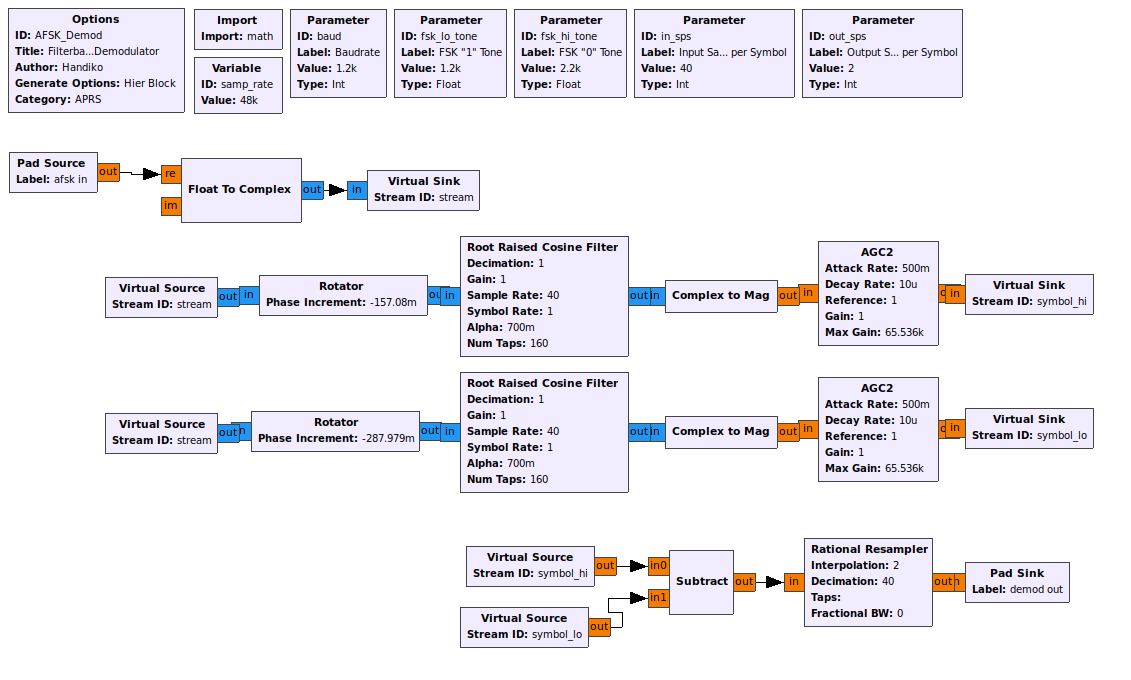
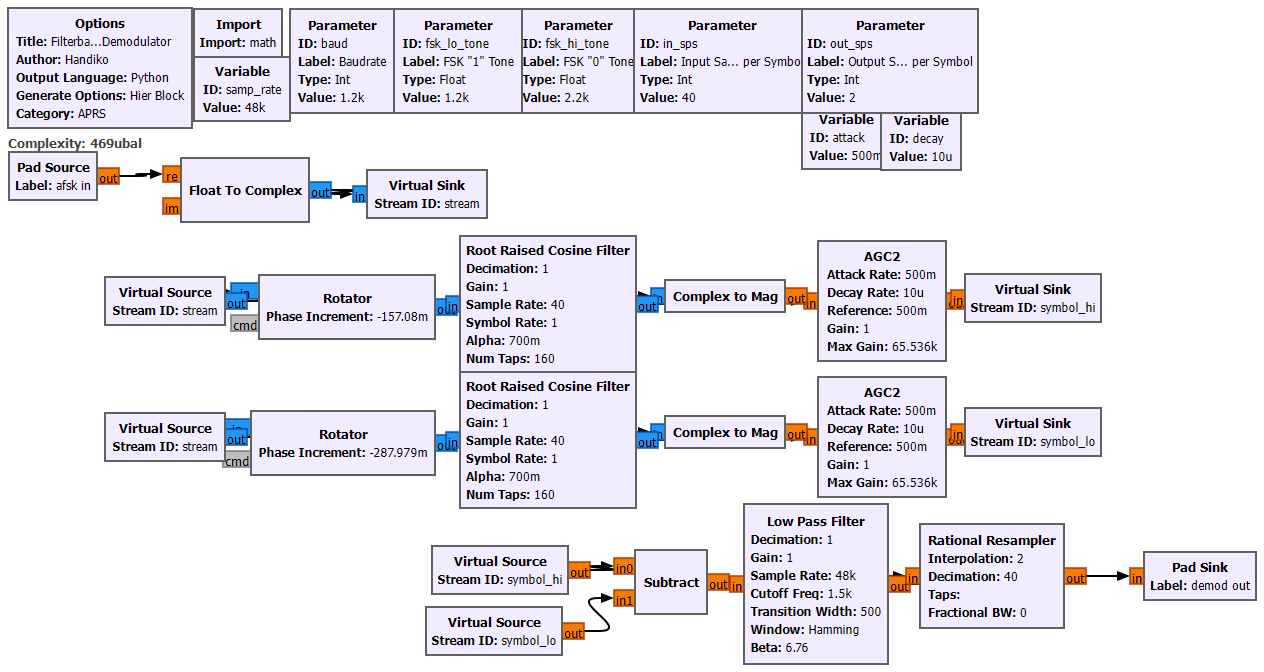
update

diff --git a/Examples/APRS_RX_RTL.py b/Examples/APRS_RX_RTL.py
@@ -20,6 +20,7 @@ from APRS_Rx import APRS_Rx  # grc-generated hier_block
 from PyQt5 import QtCore
 from gnuradio import analog
 import math
+from gnuradio import audio
 from gnuradio import blocks
 from gnuradio import filter
 from gnuradio.filter import firdes
@@ -81,11 +82,11 @@ class APRS_RX_RTL(gr.top_block, Qt.QWidget):
         self.mark = mark = 1200
         self.gmu = gmu = 0.175
         self.freq = freq = 144.39e6 - samp_rate/4
-        self.dev_ppm = dev_ppm = 58
+        self.dev_ppm = dev_ppm = 35
         self.bpf = bpf = firdes.band_pass(1.0, ch_rate, 1e3, 2.6e3, 100.0, window.WIN_BLACKMAN, 6.76)
         self.bb_rate = bb_rate = 192e3
         self.baud = baud = 1200
-        self.afgain = afgain = -7
+        self.afgain = afgain = -10.0
 
         ##################################################
         # Blocks
@@ -97,6 +98,13 @@ class APRS_RX_RTL(gr.top_block, Qt.QWidget):
         for r in range(2, 3):
             self.top_grid_layout.setRowStretch(r, 1)
         for c in range(0, 1):
+            self.top_grid_layout.setColumnStretch(c, 1)
+        self._afgain_range = qtgui.Range(-20, -1, 0.1, -10.0, 100)
+        self._afgain_win = qtgui.RangeWidget(self._afgain_range, self.set_afgain, "AF Gain (dB)", "counter_slider", float, QtCore.Qt.Horizontal)
+        self.top_grid_layout.addWidget(self._afgain_win, 2, 1, 1, 1)
+        for r in range(2, 3):
+            self.top_grid_layout.setRowStretch(r, 1)
+        for c in range(1, 2):
             self.top_grid_layout.setColumnStretch(c, 1)
         self.rational_resampler_xxx_2 = filter.rational_resampler_ccc(
                 interpolation=1,
@@ -118,7 +126,7 @@ class APRS_RX_RTL(gr.top_block, Qt.QWidget):
             window.WIN_BLACKMAN_hARRIS, #wintype
             0, #fc
             192e3, #bw
-            'RF Spectrum', #name
+            'RF Waterfall', #name
             1, #number of inputs
             None # parent
         )
@@ -154,7 +162,7 @@ class APRS_RX_RTL(gr.top_block, Qt.QWidget):
         for c in range(2, 3):
             self.top_grid_layout.setColumnStretch(c, 1)
         self.qtgui_time_sink_x_0 = qtgui.time_sink_f(
-            256, #size
+            512, #size
             1200, #samp_rate
             'Clock Recovery', #name
             1, #number of inputs
@@ -264,7 +272,7 @@ class APRS_RX_RTL(gr.top_block, Qt.QWidget):
             None # parent
         )
         self.qtgui_freq_sink_x_0.set_update_time(0.10)
-        self.qtgui_freq_sink_x_0.set_y_axis((-120), (-10))
+        self.qtgui_freq_sink_x_0.set_y_axis((-100), (-20))
         self.qtgui_freq_sink_x_0.set_y_label('Relative Gain', 'dB')
         self.qtgui_freq_sink_x_0.set_trigger_mode(qtgui.TRIG_MODE_FREE, 0.0, 0, "")
         self.qtgui_freq_sink_x_0.enable_autoscale(False)
@@ -321,19 +329,16 @@ class APRS_RX_RTL(gr.top_block, Qt.QWidget):
         self.epy_block_1 = epy_block_1.blk(callsign="YB1SDL", passcode=24511, lat="0622.07S", lon="10649.01E", comment="::GNU Radio APRS I-Gate::", beacon_interval=60, server="rotate.aprs.net", port=14580)
         self.epy_block_0_0 = epy_block_0_0.blk()
         self.blocks_rotator_cc_0 = blocks.rotator_cc((-math.pi/2), False)
+        self.blocks_multiply_const_vxx_0 = blocks.multiply_const_ff((pow(10.0,afgain/10.0)))
+        self.audio_sink_0 = audio.sink(48000, '', True)
         self.analog_quadrature_demod_cf_0 = analog.quadrature_demod_cf((ch_rate/(2*math.pi*12e3/8.0)))
-        self._afgain_range = qtgui.Range(-20, -1, 0.1, -7, 100)
-        self._afgain_win = qtgui.RangeWidget(self._afgain_range, self.set_afgain, "AF Gain (dB)", "counter_slider", float, QtCore.Qt.Horizontal)
-        self.top_grid_layout.addWidget(self._afgain_win, 2, 1, 1, 1)
-        for r in range(2, 3):
-            self.top_grid_layout.setRowStretch(r, 1)
-        for c in range(1, 2):
-            self.top_grid_layout.setColumnStretch(c, 1)
+        self.analog_agc2_xx_1 = analog.agc2_ff(0.5, (10e-6), 0.1, 1.0, 65536)
         self.APRS_Rx_0 = APRS_Rx(
             baud=baud,
-            gmu=gmu,
+            bw=0.045,
+            dev=1.0,
+            df=0.707,
             mark=mark,
-            mu=mu,
             samp_rate=ch_rate,
             space=space,
         )
@@ -345,10 +350,13 @@ class APRS_RX_RTL(gr.top_block, Qt.QWidget):
         self.msg_connect((self.APRS_Rx_0, 'HDLC'), (self.epy_block_0_0, 'hdlc in'))
         self.msg_connect((self.epy_block_0_0, 'ax25 out'), (self.epy_block_1, 'pdu_in'))
         self.connect((self.APRS_Rx_0, 0), (self.qtgui_time_sink_x_0, 0))
+        self.connect((self.analog_agc2_xx_1, 0), (self.blocks_multiply_const_vxx_0, 0))
         self.connect((self.analog_quadrature_demod_cf_0, 0), (self.fft_filter_xxx_0, 0))
+        self.connect((self.blocks_multiply_const_vxx_0, 0), (self.audio_sink_0, 0))
         self.connect((self.blocks_rotator_cc_0, 0), (self.rational_resampler_xxx_1, 0))
         self.connect((self.blocks_rotator_cc_0, 0), (self.rational_resampler_xxx_2, 0))
         self.connect((self.fft_filter_xxx_0, 0), (self.APRS_Rx_0, 0))
+        self.connect((self.fft_filter_xxx_0, 0), (self.analog_agc2_xx_1, 0))
         self.connect((self.fft_filter_xxx_0, 0), (self.rational_resampler_xxx_0, 0))
         self.connect((self.osmosdr_source_0, 0), (self.blocks_rotator_cc_0, 0))
         self.connect((self.rational_resampler_xxx_0, 0), (self.qtgui_freq_sink_x_0_0, 0))
@@ -401,7 +409,6 @@ class APRS_RX_RTL(gr.top_block, Qt.QWidget):
 
     def set_mu(self, mu):
         self.mu = mu
-        self.APRS_Rx_0.set_mu(self.mu)
 
     def get_mark(self):
         return self.mark
@@ -415,7 +422,6 @@ class APRS_RX_RTL(gr.top_block, Qt.QWidget):
 
     def set_gmu(self, gmu):
         self.gmu = gmu
-        self.APRS_Rx_0.set_gmu(self.gmu)
 
     def get_freq(self):
         return self.freq
@@ -456,6 +462,7 @@ class APRS_RX_RTL(gr.top_block, Qt.QWidget):
 
     def set_afgain(self, afgain):
         self.afgain = afgain
+        self.blocks_multiply_const_vxx_0.set_k((pow(10.0,self.afgain/10.0)))
 
 
 
